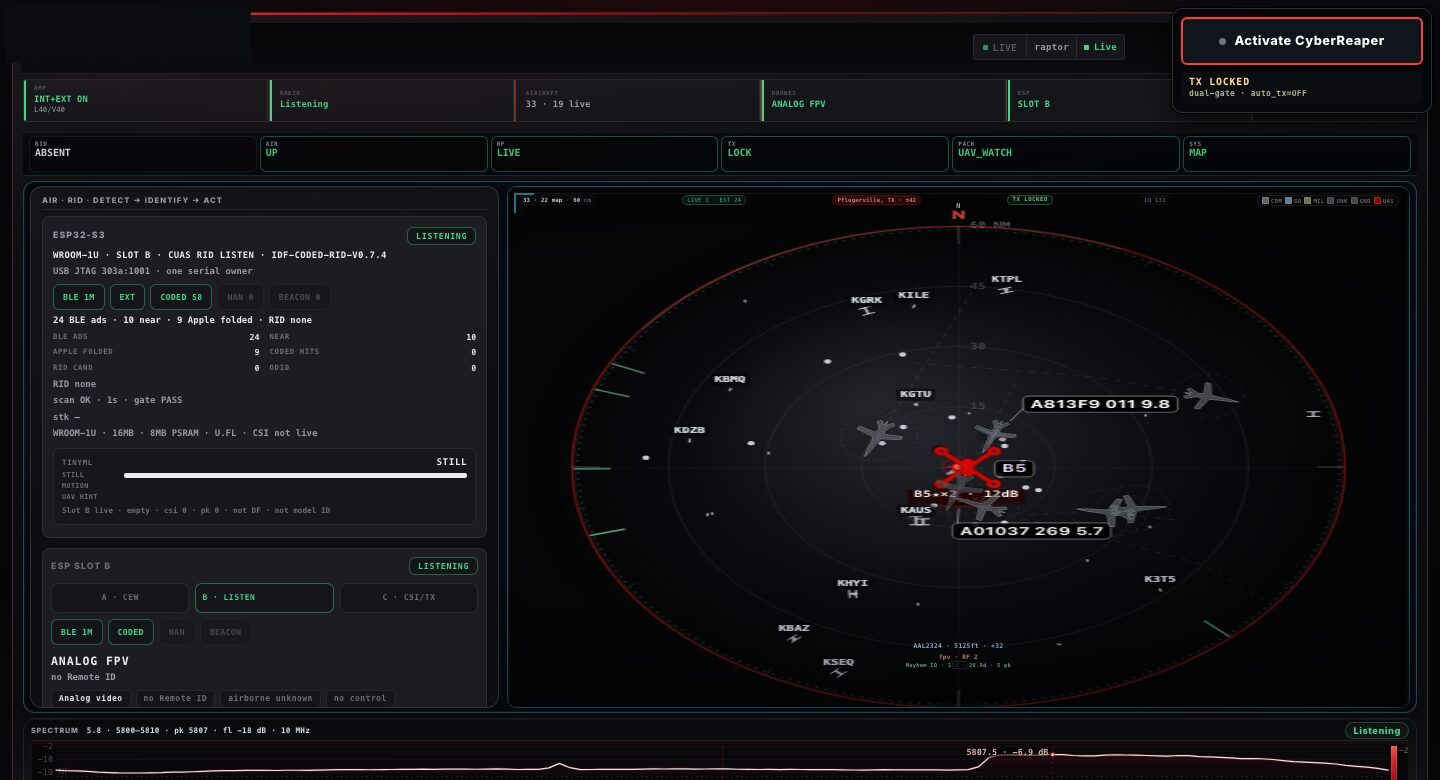
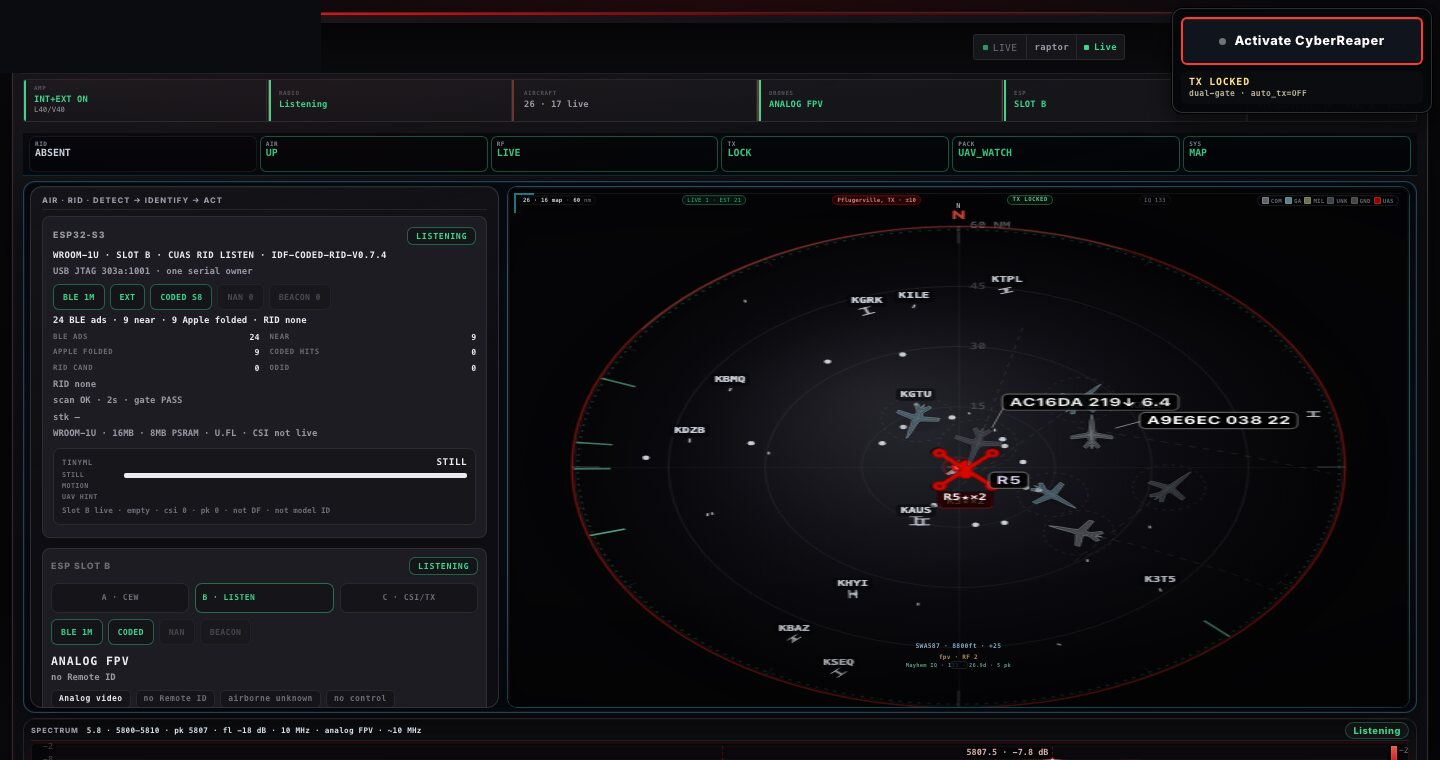
Recrop the console. Wordmark gone. Cache-bust the still.

diff --git a/index.html b/index.html
@@ -18,7 +18,7 @@
   <link rel="preconnect" href="https://fonts.googleapis.com" />
   <link rel="preconnect" href="https://fonts.gstatic.com" crossorigin />
   <link href="https://fonts.googleapis.com/css2?family=Cormorant+Garamond:ital,wght@0,500;0,600;1,500&family=Outfit:wght@300;400;500&display=swap" rel="stylesheet" />
-  <link rel="stylesheet" href="style.css?v=55" />
+  <link rel="stylesheet" href="style.css?v=56" />
 </head>
 <!-- Dark Sky Systems LLC -->
 <body>
@@ -167,7 +167,7 @@
       </p>
     </div>
     <figure class="console-bleed">
-      <img src="assets/console.jpg" alt="Live listen console. Map, spectrum, TX LOCKED." width="1440" height="780" loading="lazy" />
+      <img src="assets/console.jpg?v=56" alt="Live listen console. Map, spectrum, TX LOCKED." width="1440" height="760" loading="lazy" />
     </figure>
     <figure class="bleed tight wrap" style="max-width:72rem;margin-inline:auto;padding-inline:clamp(1.25rem,4.5vw,2.5rem)">
       <img src="assets/console-spectrum.jpg" alt="Live spectrum waterfall. Listening. Time, band, energy." width="1440" height="140" loading="lazy" />

diff --git a/software.html b/software.html
@@ -16,7 +16,7 @@
   <link rel="preconnect" href="https://fonts.googleapis.com" />
   <link rel="preconnect" href="https://fonts.gstatic.com" crossorigin />
   <link href="https://fonts.googleapis.com/css2?family=Cormorant+Garamond:ital,wght@0,500;0,600;1,500&family=Outfit:wght@300;400;500&display=swap" rel="stylesheet" />
-  <link rel="stylesheet" href="style.css?v=55" />
+  <link rel="stylesheet" href="style.css?v=56" />
 </head>
 <!-- Dark Sky Systems LLC -->
 <body>
@@ -46,7 +46,7 @@
       </div>
     </div>
     <figure class="console-bleed">
-      <img src="assets/console.jpg" alt="CyberRaptor live console. Pflugerville map, B5 radio contact, spectrum listening, Activate CyberReaper TX LOCKED." width="1440" height="780" />
+      <img src="assets/console.jpg?v=56" alt="Live listen console. Map, spectrum, TX LOCKED." width="1440" height="760" />
     </figure>
   </section>
 
